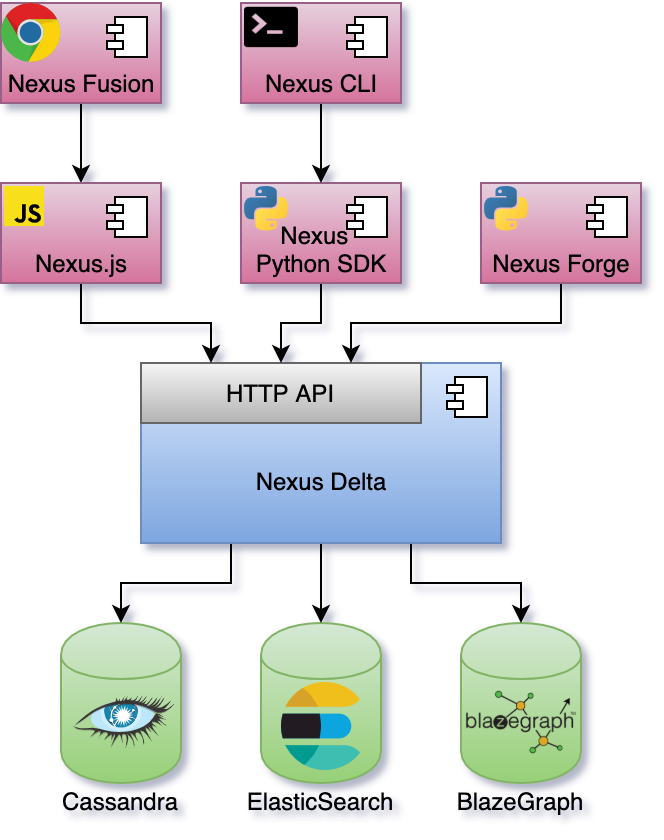
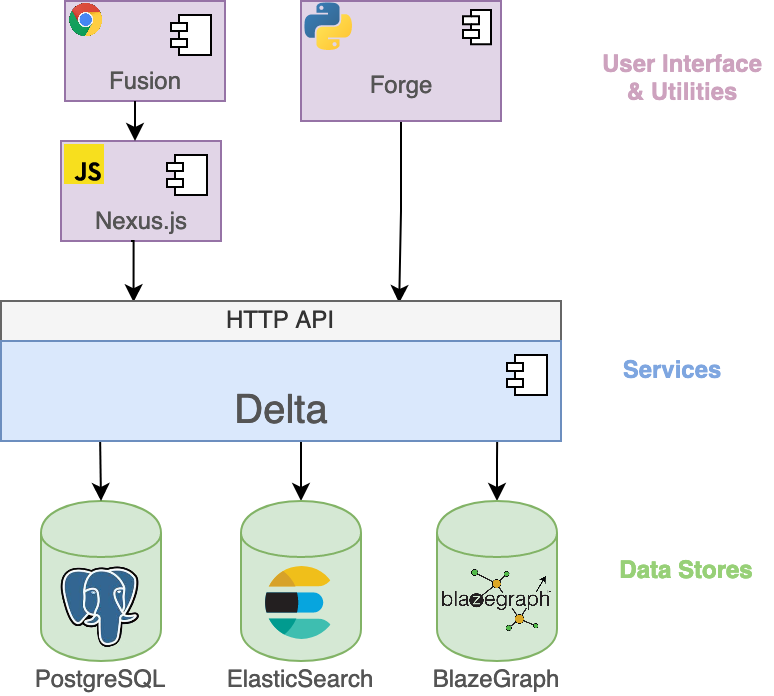
Update architecture documentation for Delta 1.8

diff --git a/docs/src/main/paradox/docs/delta/architecture.md b/docs/src/main/paradox/docs/delta/architecture.md
@@ -9,7 +9,7 @@ This document focuses on the characteristics of the Nexus Delta and its design c
 ## Ecosystem
 
 Nexus Delta is a low latency, scalable and secure service that realizes a range of functions to support data management
-and knowledge graph lifecycles. It uses @link:[Apache Cassandra]{ open=new } as a primary store (source of truth for 
+and knowledge graph lifecycles. It uses @link:[PostgreSQL]{ open=new } as a primary store (source of truth for 
 all the information in the system), @link:[ElasticSearch]{ open=new } for full text search and @link:[BlazeGraph]{ open=new } 
 for graph based data access.
 
@@ -32,11 +32,17 @@ and manage knowledge graphs using the Python programming language.
 
 One of the more important design goals for the system was to be able scale in order to support arbitrary increases in
 usage and data volume. Nexus Delta can be configured to run as single node or in a cluster configuration where the load
-on the system is distributed to all members.
+on the system is distributed to all members:
 
-@link:[Akka Cluster]{ open=new } was chosen for a decentralized, fault-tolerant, peer-to-peer based cluster membership. 
-It uses the @link:[Gossip Protocol]{ open=new } to randomly spread the cluster state. Nodes in the cluster communicate 
-over TCP using @link:[Akka Remoting]{ open=new } for coordination and distribution of load.
+* The state of the cluster is handled by the primary store
+* The nodes don't communicate directly with each other but through changes in the primary store
+* The load is distributed in the cluster in a round-robin way
+
+Adding and removing nodes requires for the moment to:
+
+* Stop the cluster
+* Change the @link:[cluster configuration] by updating the number of nodes and defining the index for each of them
+* Start the cluster
 
 @@@ div { .half .center }
 
@@ -44,8 +50,8 @@ over TCP using @link:[Akka Remoting]{ open=new } for coordination and distributi
 
 @@@
 
-@link:[Apache Cassandra]{ open=new } and @link:[ElasticSearch]{ open=new } were chosen for their horizontal scaling 
-characteristics and for favouring availability over globally strong consistency.
+@link:[PostgreSQL]{ open=new } and @link:[ElasticSearch]{ open=new } were chosen for their reliability, their flexibility 
+and their scalability.
 
 @link:[BlazeGraph]{ open=new } was initially chosen to handle graph access patterns, but it is currently the only part 
 of the system that cannot be scaled horizontally. We're currently looking for open source alternatives that offer 
@@ -54,47 +60,66 @@ clustering out of the box or solutions that would coordinate multiple BlazeGraph
 ## Anatomy
 
 Nexus Delta was built following the Command Query Responsibility Segregation (@link:[CQRS]{ open=new }) pattern where 
-there's a clear separation between the read and write models. Intent to change the application state is represented by 
-commands that are validated for access and consistency before being evaluated. Successful evaluations of commands emit 
-events that are persisted to the global event log.
+there's a clear separation between the read and write models. 
 
-Asynchronous processes (projections) replay the event log and process the information for efficient consumption. The
-information in the recorded events is transformed into documents (in the case of ElasticSearch) and named graphs (in
-the case of BlazeGraph) and persisted in the respective stores. The projections persist their progress such that
-they can be resumed in case of a crash.
+Intent to change an entity is represented by commands that are validated for access and consistency before being evaluated.
 
-Sources of events for projections are both the primary store and other (remote) Nexus Delta deployments through the
-@link:[Server Sent Events]{ open=new } W3C recommendation. This allows for data aggregation when building indices.
+Successful evaluations of commands emit:
 
-Native interfaces are offered as part of the read (query) model for querying ElasticSearch and BlazeGraph.
+* Events that are persisted to the event log
+* Updated states that are persisted the state log.
 
-@@@ div { .center }
+@@@ div { .three-quarters .center }
 
-![Anatomy](assets/architecture-anatomy.png)
+![State machine](assets/architecture-state-machine.png)
 
 @@@
 
-Asynchronous indexing (projections) and the separation between reads and writes have some interesting consequences:
+The event log is an append-only log where no update or deletion can occur.
 
-*   the system is eventually consistent and does not require a healing mechanism for handling synchronization errors
-*   the primary store acts as a bulkhead in case of arbitrary data ingestion spikes
-*   the primary store and the stores used for indices can be independently sized; indexing speed is allowed to vary
-    based on the performance of each store
-*   the system continues to function with partial degradation instead of becoming unavailable if a store suffers
-    downtime
+The state log works differently:
 
-@link:[Apache Cassandra]{ open=new } is used as an eventsourced primary store and represents the source of truth for 
-all the information in the system. Updates are not performed in place, state changes are appended to the event log. 
-The state of the system is derived from the sequence of events in the log.
+* Append new entries when a new entity is created or tagged (when this operation is available) 
+* Update and push back to the end of the log entities that have been updated
 
-The global event log is partitioned such that there's no need to replay the entire log. Subsets can be replayed, like
-for example when reconstructing the current state of a single resource. 
+The changes on the event and the state logs are performed in the same transaction to make sure that the state log remains consistent.
+
+@link:[PostgreSQL]{ open=new } is used as a primary store which represents the source of truth and which is responsible
+for performing the reads and writes of the logs.
+
+Both the event and state log can be queried in different ways that allow among other things to:
+
+* Reconstruct the state of a single resource at a given point in time
+* Fetch the latest states of entities of a given type in a chronological order
 
 @@@ div { .three-quarters .center }
 
 ![Event Log](assets/architecture-event-log.png)
 
 @@@
+
+Asynchronous processes (projections) rely on the range of queries offered by those logs to process data for multiple
+purposes. For instance, they allow to transform push data from the primary store to other data stores like Elasticsearch or
+Blazegraph.
+
+@@@ div { .three-quarters .center }
+
+![State machine](assets/architecture-projections.png)
+
+@@@
+
+The projections can persist their progress such that they can be resumed in case of a crash.
+
+Native interfaces are also offered as part of the read (query) model for querying ElasticSearch and BlazeGraph.
+
+Projections and the separation between reads and writes have some interesting properties:
+
+*   The system is eventually consistent and does not require a healing mechanism for handling synchronization errors
+*   The primary store acts as a bulkhead in case of arbitrary data ingestion spikes
+*   The primary store and the stores used for indices can be independently sized; indexing speed is allowed to vary
+    based on the performance of each store
+*   The system continues to function with partial degradation instead of becoming unavailable if a store suffers
+    downtime
 
 ## Resource Orientation
 
@@ -148,14 +173,11 @@ The authorization flow is as follows:
     of @ref:[ACLs] for the target resource(s)
 
 [Nexus Fusion]: ../fusion/index.md
-[Nexus CLI]: ../utilities/nexus-python-cli.md
 [Nexus Forge]: ../forge.md
-[Apache Cassandra]: https://cassandra.apache.org/_/index.html
+[PostgreSQL]: https://www.postgresql.org/
 [ElasticSearch]: https://www.elastic.co/elasticsearch/
 [BlazeGraph]: https://blazegraph.com/
-[Akka Cluster]: https://doc.akka.io/docs/akka/current/typed/cluster-concepts.html
-[Gossip Protocol]: https://en.wikipedia.org/wiki/Gossip_protocol
-[Akka Remoting]: https://doc.akka.io/docs/akka/current/remoting-artery.html
+[cluster configuration]: https://github.com/BlueBrain/nexus/blob/$git.branch$/delta/app/src/main/resources/app.conf#L290
 [CQRS]: https://martinfowler.com/bliki/CQRS.html
 [Server Sent Events]: https://html.spec.whatwg.org/multipage/server-sent-events.html
 [REST]: https://en.wikipedia.org/wiki/Representational_state_transfer

diff --git a/docs/src/main/paradox/docs/releases/v1.8-release-notes.md b/docs/src/main/paradox/docs/releases/v1.8-release-notes.md
@@ -68,6 +68,11 @@ It relies on a custom schema and is designed to:
   * Faster indexing by allowing to fetch directly states before processing them
 * Allow to delete undesirable projects in an efficient way
 
+### New clustering deployment
+
+If you were running Nexus in a cluster configuration, Nexus 1.8 doesn't rely anymore on Akka Cluster and moved to a new model
+described in the @ref:[Architecture page](../delta/architecture.md#clustering).
+
 ### Name and description for resolvers, storages and views
 It could be difficult for users to identify these different entities (for example in Fusion).
 These two additional fields fills this gap by allowing users to add extra information.
